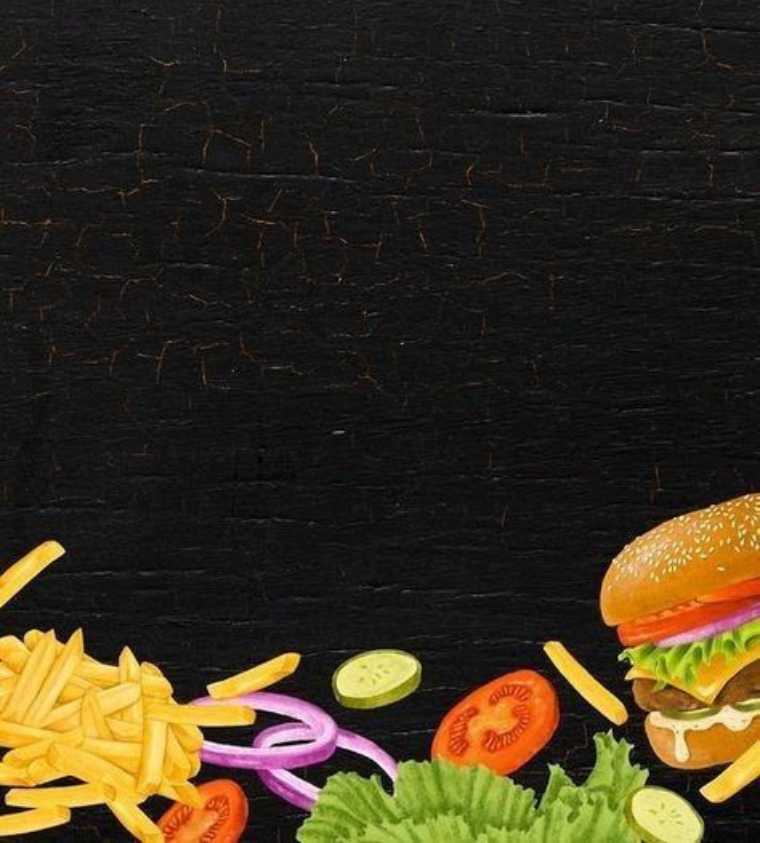
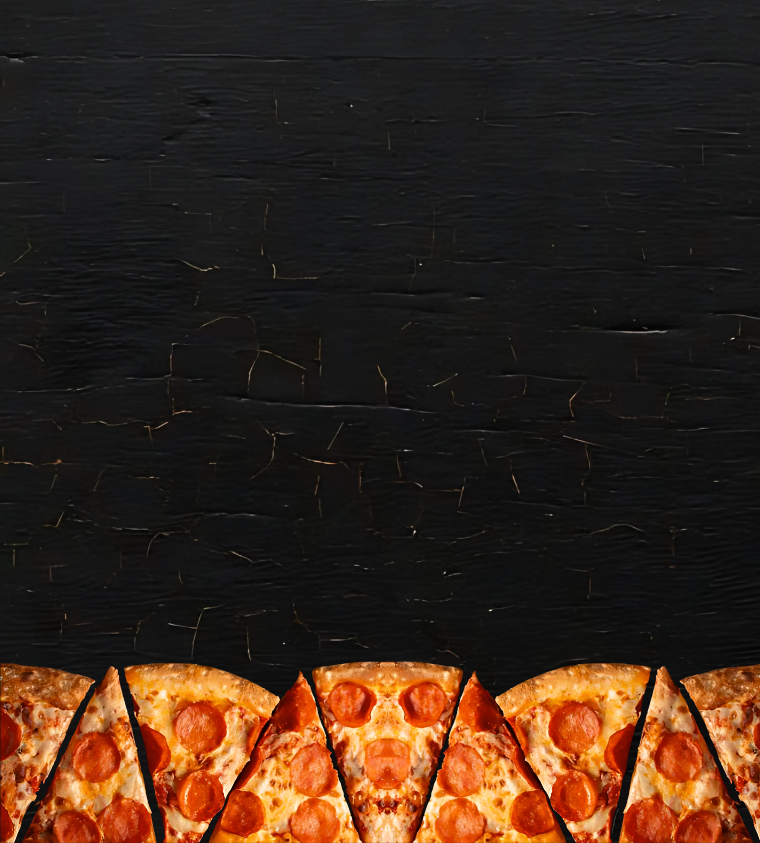
background

diff --git a/style.css b/style.css
@@ -664,7 +664,4 @@ section {
     html {
         font-size: 50%;
     }
-    .home{
-        background: url(Images/Phone\ background.jpeg) no-repeat;
-    }
 }
